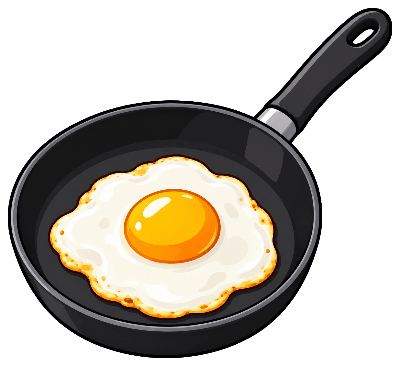
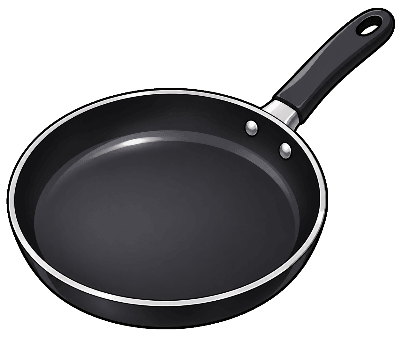
Pictures (item 073): Matt's picks from 070's round promoted with art:pick, MAT 3 (interlocking jigsaw foam tiles, never a RUG), PAN 2 (empty, never an EGG), ROCK 4 (bold outlined orange-brown, apart from the bridge room's grey boulders); each candidate's brief is now its PICTURES entry; PICK_NOTES a

diff --git a/content/art/prompts.ts b/content/art/prompts.ts
@@ -154,7 +154,9 @@ export const PICK_NOTES: Record<string, string> = {
   pic_top: 'Move word TOP (item 018): the picture beside it in the victory recap and the fan of pictures on its super. `current` is candidate 2, promoted by item 018: 1 has a green band keyed half-clear. 0 is the painted placeholder.',
   pic_tug: 'Move word TUG (item 018): the picture beside it in the victory recap and the fan of pictures on its super. `current` is candidate 2, promoted by item 018: the tightest rope; all three are long and thin. 0 is the painted placeholder.',
   pic_fix: 'Move word FIX (item 018): the picture beside it in the victory recap and the fan of pictures on its super. `current` is candidate 2, promoted by item 018. 0 is the painted placeholder.',
-  pic_pan: 'Move word PAN (item 018): the picture beside it in the victory recap and the fan of pictures on its super. `current` is candidate 1, promoted by item 018. 0 is the painted placeholder.',
+  pic_pan: "Move word PAN (item 018): the picture beside it in the victory recap and the fan of pictures on its super. `current` is candidate 2 of item 070's round, Matt's pick (item 073): an empty pan, so it never reads as EGG. 0 is the painted placeholder.",
+  pic_mat: "`current` is candidate 3 of item 070's round, Matt's pick (item 073): jigsaw foam tiles, so it never reads as RUG. `0` is the old striped mat with tassels.",
+  pic_rock: "`current` is candidate 4 of item 070's round, Matt's pick (item 073): bold, outlined and orange-brown, apart from the bridge room's grey boulders. Its `0` is not a usable image.",
   pic_ram: 'Move word RAM (item 018): the picture beside it in the victory recap and the fan of pictures on its super. `current` is candidate 1, promoted by item 018: charging head down. 0 is the painted placeholder.',
   char_tiamat_good: "`current` is candidate 3, Matt's pick (item 016): wings spread open, hands clasped over her belly. 0 is item 013's first promotion (candidate 1).",
   char_tiamat_evil: "`current` is candidate 3, Matt's pick (item 016): gold collar and cuffs, one hand on her hip. 0 is item 013's first promotion (candidate 2, the plainest dragon belly).",
@@ -399,7 +401,8 @@ const PICTURES: Record<string, string> = {
   top: 'a top: a colourful striped spinning top toy spinning on its point, curved swirl marks around it',
   tug: 'a tug: two little cartoon hands pulling hard on a thick rope in a tug of war, the rope pulled tight with a knot in the middle',
   fix: 'a fix: a silver spanner and a sticking plaster crossed over each other, with sparkles',
-  pan: 'a pan: a black frying pan with a long handle, a fried egg sizzling in it',
+  // Item 073 (069's M9): Matt's pick from 070's brief round, empty so it never reads as EGG.
+  pan: 'a pan: one empty black frying pan with a long straight handle, seen from above at a slant so the whole round inside of the pan and the full handle both show, a shiny silver rim and a little shine on the black inside; completely empty, no food, no egg, no steam; clearly a frying pan, not a pot, a plate, a bowl or a tennis racket; the pan large',
   ram: 'a ram: a white ram (a woolly sheep with big curly horns) charging forward, side-on',
   // Item 037: the word bank's new words (content/phonics/bank.ts).
   jam: 'jam: a small glass jar of bright red strawberry jam with a red gingham cloth over the lid, a spoon beside it, no label',
@@ -488,7 +491,8 @@ const PICTURES: Record<string, string> = {
   vet: 'a vet: a smiling animal doctor in a blue tunic with a stethoscope, gently holding a little puppy with a bandaged paw',
   chest: 'a chest: a wooden pirate treasure chest with gold bands, its lid open, gold coins and a few jewels spilling out',
   bin: 'a bin: a green wheelie rubbish bin with its lid shut, side-on, a banana peel peeking out',
-  rock: 'a rock: one big round grey rock, chunky and solid, a few small pebbles beside it',
+  // Item 073 (069's M9): Matt's pick from 070's brief round, bold and orange so it stands apart from the bridge room's grey boulders.
+  rock: 'a rock: one chunky lumpy rock in warm orange-brown with flat cracked faces, darker cracks and speckles, a thick black outline all round and a bright white highlight on top, sitting on its own with a soft shadow under it, a little smaller and much bolder than a boulder; clearly one rock you could pick up with two hands, not a potato, a loaf of bread or a mountain; no grass, no pebbles, no other stones',
   clock: 'a clock: a round red alarm clock with two bells on top, a white face and black hands',
   stick: 'a stick: one long brown wooden stick from a tree, a little bent, with a small leaf on it, lying side-on',
   brush: 'a brush: a pink hairbrush with a round head of soft bristles and a long handle, side-on',
@@ -500,7 +504,8 @@ const PICTURES: Record<string, string> = {
   key: 'a key: one big shiny gold door key with a round loop handle and simple teeth, lying side-on; a key alone, no lock, no keyring',
   yoyo: 'a yo-yo: one bright red toy yo-yo hanging from its white string, the string looped round a finger at the top, a few motion lines',
   // Item 054: the Stretchy Bridge's pictures beside MAP, LIP and LOG.
-  mat: 'a mat: a thick rectangular red-and-yellow striped play mat lying flat on the floor, seen from slightly above, tassels on its short ends; a mat alone, not a rug with a pattern of roads, no writing',
+  // Item 073 (069's M9): Matt's pick from 070's brief round, jigsaw foam tiles so it never reads as RUG.
+  mat: "a mat: a children's foam play mat made of six thick interlocking jigsaw-edged foam squares in bright red, blue, yellow and orange, fitted together into one flat rectangle on the floor, seen from slightly above, the jigsaw edges clearly showing and the foam visibly thick; no tassels or fringe, no stripes, no letters, numbers or pictures on it; clearly a play mat, not a rug, a carpet or a puzzle on a table",
   man: 'a man: one friendly grown-up man standing and waving, short brown hair, a blue jumper and jeans, smiling, full body; an ordinary man, not a dad from the family, not a superhero',
   lid: 'a lid: one round shiny silver saucepan lid with a black knob handle on top, tilted so the knob shows; a lid alone, no pot, no pan',
   lock: 'a lock: one big shiny gold padlock, closed, with a keyhole on its front and a curved silver shackle on top; a lock alone, no key, no door',

diff --git a/docs/qa-findings.md b/docs/qa-findings.md
@@ -173,7 +173,7 @@ Most important first; the hunt's pick is in **bold**. Matt took every pick (item
 | M16 | Charge the Spell, battle | The /l/ rune's gesture "Lick a lollipop, it goes..." says POP (a move word) before the battle; fix 72's compound rule would catch it, so LOLLI is left off its list until the line changes (`COMPOUND_HEADS` in `src/rules/bank.ts`). | **(b) a new /l/ gesture without a bank word (e.g. "Sing la, la, la, it goes...": not LIPS, a bank word too), `voice:lines`, `voice:build`, then add LOLLI to the list**; (a) keep POP off the pads in episodes with Charge | Done (item 071): "Sing la, la, la, it goes..." with 🎤 (not 🎵, HUM's picture); LOLLI is in `COMPOUND_HEADS`. |
 | M7 | Battle move choice (sea tug) | With three pads and the knot on her side, the pads do not fit between her and Jormungandr, so one goes past him, under his coils (seen: FLIP). Item 034's rule (her side only) gives way to "anywhere but on him". | (a) keep; **(b) on her side always: try a narrower gap, or the second row for one pad, before going past him**; (c) count the coils as part of him | Done (item 071): `placePads` (`src/battle/padPlace.ts`) tries her side at the full gap, a 240 px gap, nearer the edge, a staggered second row (480 and 590), nearer him, and only then past him. |
 | M8 | Battle move choice | A villain mid-leap when a choice opens lands on a pad's ring after the pads are placed (QUEST under Evil Tiamat): fix 40 places pads by where fighters stand at that moment, and the villain is not stepped back like the team (M6). | (a) keep; **(b) the villain's side steps back off the pads too, as the team does**; (c) place pads by where a leaping fighter will land | Done (item 071): once he has not moved for a second of wall-clock time, a villain under a sign or on a ring steps clear like the team (`villainStepBack`, `clearSpot`); not in a contest. |
-| M9 | Pictures | Seven bank words are still placeholder pictures: ZOO, ZEBRA, APPLE, IGLOO (an ice cube in a box: she would say ICE), OCTOPUS, UMBRELLA, X-RAY; the rune altar and stone props too. MAT and RUG are drawn alike (a striped mat with tassels), so beside each other they read as two rugs. PAN is mostly a big fried egg (she would say EGG, a word she reads too). ROCK, on the bridge room's far bank, looks like one more of the room's painted boulders. | **(b) `npm run art:gen -- pic_igloo pic_zebra pic_apple pic_octopus pic_umbrella pic_xray pic_zoo prop_rune_altar prop_rune_stone`, and `art:alts` for MAT (a play mat without tassels), PAN (empty) and ROCK (outlined, a pet rock)**; (a) keep IGLOO and MAT out of play (`odd`) until then. Item 070: the seven pictures drawn (the rune props not, the item named only the seven); MAT, PAN and ROCK candidates wait on Matt's picks (`scratch/art_alts_070_word_pictures.json`) | Item 070. |
+| M9 | Pictures | Seven bank words are still placeholder pictures: ZOO, ZEBRA, APPLE, IGLOO (an ice cube in a box: she would say ICE), OCTOPUS, UMBRELLA, X-RAY; the rune altar and stone props too. MAT and RUG are drawn alike (a striped mat with tassels), so beside each other they read as two rugs. PAN is mostly a big fried egg (she would say EGG, a word she reads too). ROCK, on the bridge room's far bank, looks like one more of the room's painted boulders. | **(b) `npm run art:gen -- pic_igloo pic_zebra pic_apple pic_octopus pic_umbrella pic_xray pic_zoo prop_rune_altar prop_rune_stone`, and `art:alts` for MAT (a play mat without tassels), PAN (empty) and ROCK (outlined, a pet rock)**; (a) keep IGLOO and MAT out of play (`odd`) until then. Item 070: the seven pictures drawn (the rune props not, the item named only the seven); MAT, PAN and ROCK drawn as candidates from briefs. Item 073: Matt's picks promoted, each brief now the game's prompt (`PICTURES`): MAT 3 (interlocking jigsaw foam tiles, no tassels), PAN 2 (empty, no egg), ROCK 4 (bold outlined orange-brown rock) | Items 070, 073. |
 | M10 | Lines that point at nothing | "Look! A fish is waving at us!" (the boat scene, no fish); reformed Jormungandr's "Look, I am a big rainbow noodle!" (he is green); reformed Warlock Jason's "Look, a rainbow spell!" (no spell shows). Same kind as W6's robot. | **(b) reword the three (no "Look" at something not drawn), then `voice:lines`, `voice:build`**; (c) add a fish prop and a rainbow burst on those lines | Done (item 071): "Our boat bobs on the little waves!", "I am a happy green noodle now!" (key `green`), "Sparkles and giggles for everybody!" (key `giggles`). |
 | M11 | Wording | The word machine's "Here are some new sounds! Let's make one more." plays when two words are left (a first family of only two words: NET/VET, DOG/LOG, PIN/BIN, FOX/BOX, SUN/BUN). Evil Bavmorda's ultimate shows and says EVERYBODY PIGS!! (two marks). The /e/ rune's gesture "Knock knock, crack it open" never names the egg and shares "knock" with /k/. Three of Bavmorda's six taunts start "Bow...". Scar's and cyber Dada Matt's gift scenes say "your armor" (she wears none in their episodes). | **(b) reword each: "Let's make a new word!", drop the roster's own "!" on Everybody Pigs, "Tap the egg, crack it open, it goes...", a new cackle taunt, "your powers"; then `voice:lines`, `voice:build`** | Done (item 071) as picked. The cackle is "You cannot stop my magic, little hero!" and the piglets "Off you go, little piglets!" (one "Bow" left). The /e/ line says TAP and EGG, bank words, so with no answer to the question Matt's default (a) applies: `GESTURE_WORDS` (`src/rules/charge.ts`) counts them as said in every episode (no pad, gift, warm-up, key or Charge word), and its glyph is 🐣 (🥚 is EGG's and NEST's picture). |
 | M12 | Victory (dessert, reformed Chef Jason) | With Chef Jason as the villain, his reformed line and the scene's close are the same sentence ("This is the best party ever!"), said twice in a row. | **(b) a different party line for him**; (c) the script skips a close the villain just said | Done (item 071): "Let's have a party every day!" |
